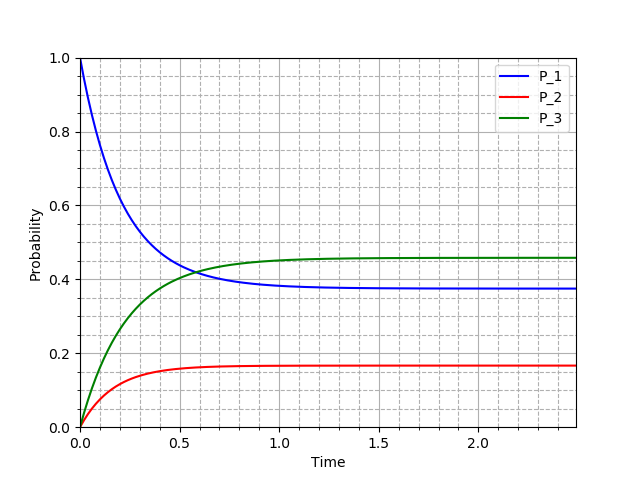
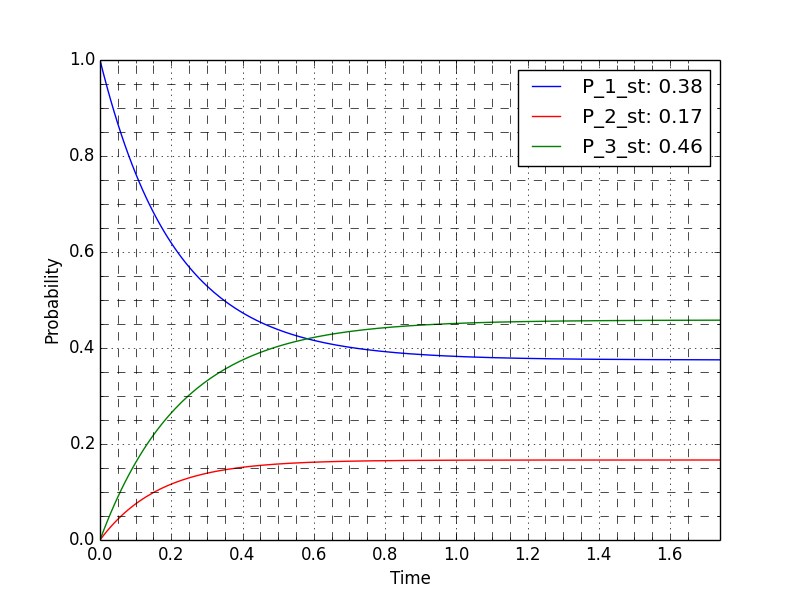
fds

Changed region(s): [[0.0312, 0.0938, 0.9062, 0.9688]]

diff --git a/HW1_2_2.py b/HW1_2_2.py
@@ -1,0 +1,60 @@
+import numpy as np
+from scipy.linalg import eig
+from scipy.linalg import expm
+import matplotlib.pyplot as plt
+
+def main():
+    ''' 2.2.1b) Calculate the stationary state for the matrix G'''
+    G = np.array([[-1, 1/4.0, 0, 0],
+                  [1, -1, 1/4.0, 0],
+                  [0, 3/4.0, -1, 1],
+                  [0, 0, 3/4.0, -1]])
+    eig_G, eig_vec_G = eig(G)
+    ind_st = np.argmin(abs(eig_G))
+    lambda_st = eig_G[ind_st]
+    P_st = eig_vec_G[:, ind_st]
+    P_st = P_st / sum(P_st) # normalization
+    print('2.2.1b) P_st: ', P_st)
+
+    ''' 2.2.2b) Calculate the stationary state for the matrix G'''
+    G = np.array([[-3, 4, 1],
+                  [1, -5, 1],
+                  [2, 1, -2]])
+    eig_G, eig_vec_G = eig(G, right=True)
+    ind_st = np.argmin(abs(eig_G)) # Get the 0
+    lambda_st = eig_G[ind_st]
+    P_st = eig_vec_G[:, ind_st]
+    P_st = P_st / sum(P_st) # normalization
+    print('2.2.1b) P_st: ', P_st)
+
+    ''' 2.2.2c) Time evolution of P '''
+    P_0 = np.array([1, 0, 0]) # init. prob.
+    t_0 = 0 # init. time
+    t_f = 1.75 # final time
+    dt = 0.01 # time step
+    t_vec = np.arange(t_0, t_f, dt)
+
+    P = np.zeros([len(t_vec), 3])
+    for t in range(len(t_vec)):
+        P[t, :] = np.dot(expm(t_vec[t]*G), P_0)
+
+    print('P_st simulated: ', P[-1, :])
+    fig = plt.figure()
+    ax = fig.add_subplot(111)
+    ax.plot(t_vec, P[:, 0], label='P_1_st: ' + str(round(P[-1, 0], 3)), color='blue')
+    ax.plot(t_vec, P[:, 1], label='P_2_st: ' + str(round(P[-1, 1], 3)), color='red')
+    ax.plot(t_vec, P[:, 2], label='P_3_st: ' + str(round(P[-1, 2], 3)), color='green')
+    ax.set_xlabel('Time')
+    ax.set_ylabel('Probability')
+    ax.set_xlim([t_vec[0], t_vec[-1]])
+    ax.set_ylim([0, 1])
+    ax.minorticks_on()
+    ax.grid(True, which='major')
+    ax.grid(True, which='minor', linestyle='--')
+    ax.legend()
+    fig.savefig('timeEv.png', bbox='tight')
+
+    plt.show()
+
+if __name__ == '__main__':
+    main()

diff --git a/HW1_2_1.py b/HW1_2_1.py
@@ -1,0 +1,38 @@
+import numpy as np
+import matplotlib.pyplot as plt
+from scipy.linalg import eig
+from random import *
+
+def main():
+    ''' Task 2 '''
+    # # # 1.a) # # #
+    W = [[1/4.0, 0, 1/8.0], [1/2.0, 1/2.0, 3/4.0], [1/4.0, 1/2.0, 1/8.0]]
+
+    # # # 1.b) # # #
+    distr_0 = [500, 300, 200]
+    distr_1 = np.dot(W, distr_0)
+    print('2.1b)', distr_1)
+
+    # # # 1.c) # # #
+    # W = np.array([[0, 0.25, 0.25], [1/2.0, 1/2.0, 0.25], [0.5, 0.25, 0.5]]) # From test exself.
+    eig_W_r, eig_vec_r = eig(W) # right eigenvalues/-vectors
+    max_ind = np.argmax(eig_W_r)  # index of eigenvalue with value 1
+    P_st = eig_vec_r[:, max_ind]
+    norm = np.sum(P_st)
+    P_st = P_st / norm
+    print('2.1c)', P_st, np.sum(P_st))
+    print('2.1c)', np.dot(W, P_st))
+
+
+    # # # 1.d) # # #
+    eig_W_l, eig_vec_l = eig(W, left=True, right=False) # left eigenvalues/-vectors
+    for i in range(len(W)):
+        if i != max_ind:
+            print('2.1d: lambda', eig_W_r[i])
+            a = np.array(eig_vec_r[:, i].reshape(3,1)) # enable mat mult
+            b = np.array(eig_vec_l[:, i].reshape(1,3))  # enable mat mult
+            B = np.dot(a, b)
+            print('2.1d: B', B)
+
+if __name__ == '__main__':
+    main()
